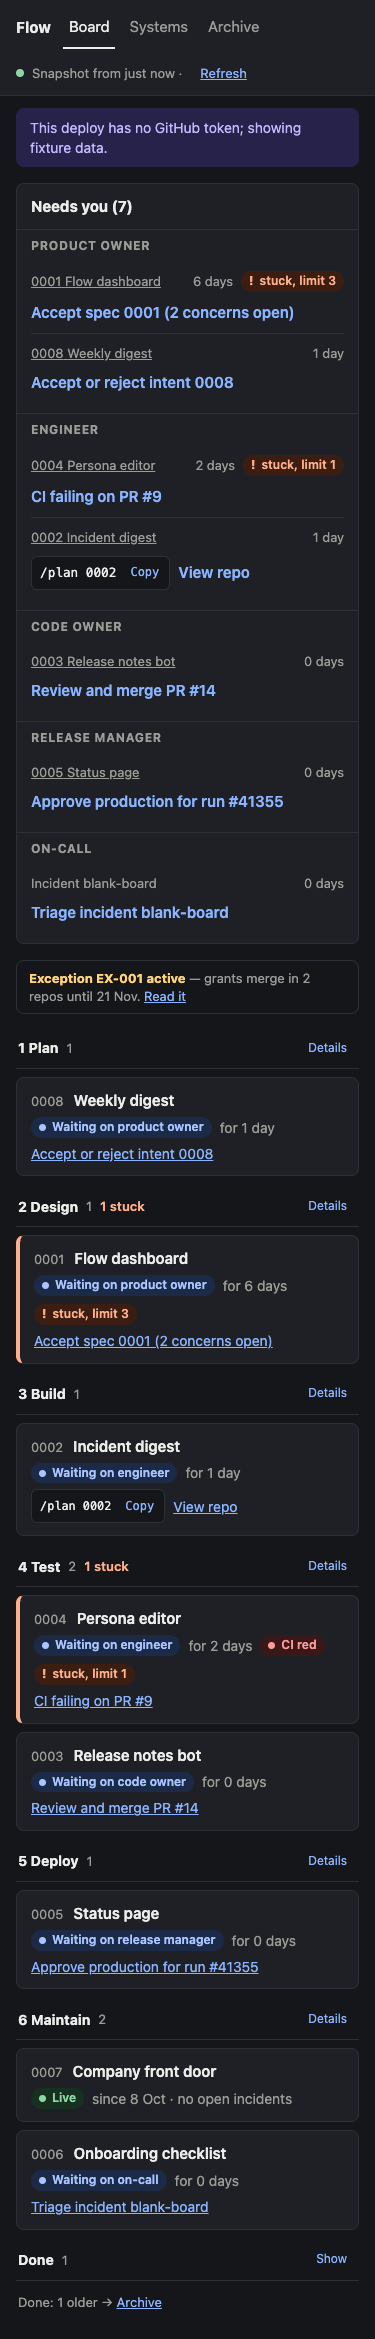
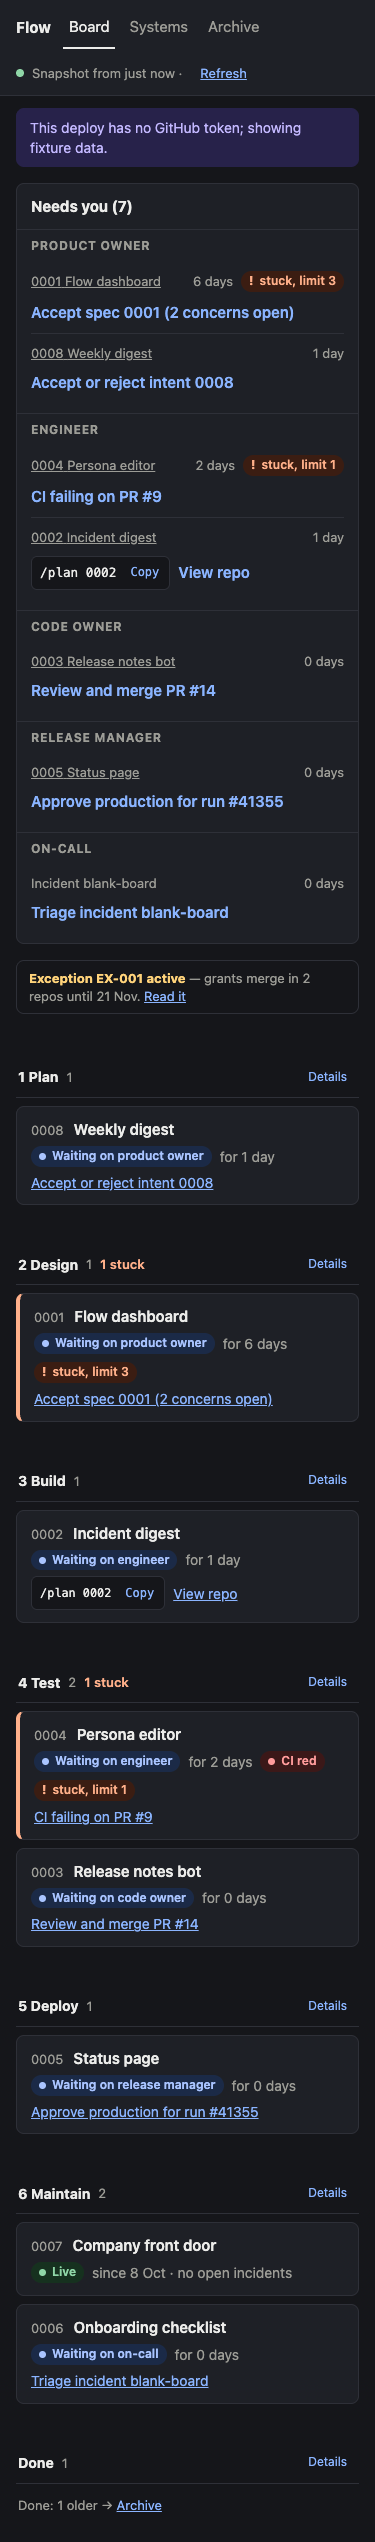
Re-check fixes: intent stuck analysis uses the wait, Systems nowrap only ≥ 1100 px, Done expands in place, header alignment, spec-head URL guard, branch-scoped site store (plan-unchanged)
UX and tech-reviewer re-checks of 49609bf. The Intent page compared time
in stage with the limit; it now compares the wait and states both. The
Systems table's nowrap columns clipped at laptop widths under the body's
hidden overflow; they apply only on wide monitors. Done gets a one-line
detail so every header expands in place (R6). Stage headers keep a
two-line minimum so a wrapped header no longer offsets its cards.
Security nits: head sha checked and directory encoded before the
contents URL; a branch deploy of any branch other than main gets a
deploy-scoped store. 323 tests. Review record updated with the re-check.

diff --git a/src/styles.css b/src/styles.css
@@ -128,7 +128,9 @@ button { font: inherit; }
 /* ---- stages ---- */
 .stages { display: grid; gap: var(--gap); grid-template-columns: repeat(7, minmax(0, 1fr)); }
 .stage-col { display: grid; gap: 8px; align-content: start; min-width: 0; }
-.stage-col > header { display: flex; align-items: center; gap: 8px; padding: 2px 2px 4px; border-bottom: 2px solid var(--line); flex-wrap: wrap; }
+/* Two-line minimum so a header that wraps ("1 stuck" + Details) does not
+   push its cards below the neighbouring columns'. */
+.stage-col > header { display: flex; align-items: center; align-content: end; gap: 8px; padding: 2px 2px 4px; border-bottom: 2px solid var(--line); flex-wrap: wrap; min-height: 68px; }
 .stage-col > header h2 { font-size: 14px; margin: 0; }
 .stage-col > header .count { color: var(--muted); font-size: 13px; }
 .stage-col > header .stuck-count { color: var(--stuck-fg); font-size: 13px; font-weight: 600; }
@@ -161,8 +163,13 @@ button { font: inherit; }
 .systems, .archive { display: grid; gap: 16px; }
 .systems table, .archive table { width: 100%; border-collapse: collapse; background: var(--panel); border: 1px solid var(--line); border-radius: var(--radius); font-size: 14px; }
 .systems th, .systems td, .archive th, .archive td { text-align: left; padding: 8px 10px; border-bottom: 1px solid var(--line); vertical-align: top; overflow-wrap: break-word; }
-.systems td:first-child, .systems td:nth-child(2), .systems td:nth-child(3) { white-space: nowrap; }
-.systems th:nth-child(5) { min-width: 14em; }
+/* Wide monitors only: keep repo and site names on one line and give the
+   status sentence room. Below this the table wraps rather than clipping
+   (body hides horizontal overflow). */
+@media (min-width: 1100px) {
+  .systems td:first-child, .systems td:nth-child(2), .systems td:nth-child(3) { white-space: nowrap; }
+  .systems th:nth-child(5) { min-width: 14em; }
+}
 .systems th, .archive th { font-size: 12px; text-transform: uppercase; letter-spacing: 0.05em; color: var(--muted); }
 .systems tr:last-child td, .archive tr:last-child td { border-bottom: 0; }
 .systems .cards { display: none; gap: 10px; }
@@ -218,5 +225,4 @@ button { font: inherit; }
 @media (min-width: 601px) {
   .systems .cards { display: none; }
   /* Done cards are always visible on wide screens; the Show/Hide toggle is a phone control */
-  .stage-col.done > header button { display: none; }
 }

diff --git a/src/components/Stage.tsx b/src/components/Stage.tsx
@@ -27,6 +27,9 @@ export function StageSection({ stage, rows, stuckCount, allRows, snapshot, now, 
   const detailId = `stage-${stage}-detail`;
   const headingId = `stage-${stage}-h`;
   const detail = open && !isDone ? stageDetail(stage, allRows, snapshot, now) : null;
+  // Done's detail is one line (R6 says every header expands in place); on a
+  // phone the same toggle also reveals the Done cards (CSS `.is-open`).
+  const doneDetail = open && isDone;
 
   const cls = ["stage-col", empty ? "is-empty" : "", isDone ? "done" : "", open ? "is-open" : ""].filter(Boolean).join(" ");
 
@@ -34,7 +37,7 @@ export function StageSection({ stage, rows, stuckCount, allRows, snapshot, now, 
     navigate(open ? "/" : `/?stage=${stage}`, { replace: true });
   }
 
-  const label = isDone ? (open ? "Hide" : "Show") : open ? "Hide" : "Details";
+  const label = open ? "Hide" : "Details";
 
   return (
     <section className={cls} aria-labelledby={headingId}>
@@ -43,11 +46,18 @@ export function StageSection({ stage, rows, stuckCount, allRows, snapshot, now, 
         <span className="count">{rows.length}</span>
         {stuckCount > 0 && <span className="stuck-count">{stuckCount} stuck</span>}
         {!empty && (
-          <button type="button" aria-expanded={open} onClick={toggle} {...(detail ? { "aria-controls": detailId } : {})}>
+          <button type="button" aria-expanded={open} onClick={toggle} {...(detail || doneDetail ? { "aria-controls": detailId } : {})}>
             {label}
           </button>
         )}
       </header>
+      {doneDetail && (
+        <div className="stage-detail" id={detailId}>
+          <div>
+            {plural(rows.length, "intent")} on board · {plural(olderDone ?? 0, "intent")} older in Archive
+          </div>
+        </div>
+      )}
       {detail && (
         <div className="stage-detail" id={detailId}>
           <div>

diff --git a/tests/ui/R9_states.test.tsx b/tests/ui/R9_states.test.tsx
@@ -208,18 +208,25 @@ describe("R9 fixture and populated", () => {
     expect(document.getElementById("stage-test-detail")).not.toBeNull();
   });
 
-  test("Done toggle reads Show/Hide, reveals cards only, and sets no aria-controls", () => {
+  test("Done expands in place too (R6): a one-line detail with the Archive count; aria-controls only while open", () => {
     renderAt("/", makeFlow({ snapshot: populatedSnapshot() }));
     const done = document.querySelector(".stage-col.done")!;
     const btn = done.querySelector("button")!;
-    expect(btn).toHaveTextContent("Show");
+    expect(btn).toHaveTextContent("Details");
     expect(btn).toHaveAttribute("aria-expanded", "false");
     expect(btn).not.toHaveAttribute("aria-controls");
     renderAt("/?stage=done", makeFlow({ snapshot: populatedSnapshot() }));
     const open = document.querySelector(".stage-col.done.is-open")!;
     expect(open.querySelector("button")).toHaveTextContent("Hide");
-    expect(open.querySelector(".stage-detail")).toBeNull();
+    expect(open.querySelector("button")).toHaveAttribute("aria-controls", "stage-done-detail");
+    expect(text(open.querySelector(".stage-detail"))).toMatch(/^1 intent on board · \d+ intents? older in Archive$/);
     expect(open.querySelectorAll(".card").length).toBe(1);
+  });
+
+  test("intent stuck analysis compares the wait, not the time in stage, with the limit", () => {
+    renderAt("/intent/0001", makeFlow({ snapshot: populatedSnapshot() }));
+    const analysis = text(document.querySelector(".analysis"));
+    expect(analysis).toMatch(/^Stuck: waited \d+ days?, limit 3 days \(design\.spec_pr_open_days\) · \d+ days? in Design\.$/);
   });
 
   test("intent header: one state string, stage after it; pending timeline entries say so in text", () => {

diff --git a/src/collector/collect.ts b/src/collector/collect.ts
@@ -540,13 +540,14 @@ async function readPlatformArtifacts(ctx: Ctx, tree: GhTreeEntry[]): Promise<Pla
 async function flaggedAtHead(ctx: Ctx, dir: string, pr: Pr): Promise<number> {
   const path = `intent/${dir}/spec.md`;
   const label = `${ctx.platform}#${pr.number} ${path}@head`;
-  const text = await soft(
-    ctx,
-    label,
-    async () =>
-      decodeBlob(asObject<GhBlob>(await ctx.client.get(`/repos/${ctx.owner}/${ctx.platform}/contents/${path}?ref=${pr.headSha}`), "contents")),
-    null,
-  );
+  // Both segments come from GitHub, but neither may reshape the URL: the
+  // head must be a full sha and the directory is encoded.
+  if (!/^[0-9a-f]{40}$/.test(pr.headSha)) {
+    warn(ctx, `${label} skipped: head is not a sha`);
+    return 0;
+  }
+  const url = `/repos/${ctx.owner}/${ctx.platform}/contents/intent/${encodeURIComponent(dir)}/spec.md?ref=${pr.headSha}`;
+  const text = await soft(ctx, label, async () => decodeBlob(asObject<GhBlob>(await ctx.client.get(url), "contents")), null);
   if (text === null) return 0;
   try {
     const v = specFrontmatter(parseFrontmatter(text));

diff --git a/netlify/lib/store.ts b/netlify/lib/store.ts
@@ -58,8 +58,16 @@ export type Scope = "site" | "deploy";
 /** The only contexts whose snapshot outlives the deploy and is shared across deploys. */
 export const SITE_CONTEXTS: ReadonlySet<string> = new Set(["production", "branch-deploy"]);
 
-export function scopeFor(prefix: string): Scope {
-  return SITE_CONTEXTS.has(prefix) ? "site" : "deploy";
+/**
+ * Site scope is for production and the `main` branch deploy (staging). A
+ * branch deploy of any other branch — should Netlify's allowed branches ever
+ * widen — gets a deploy-scoped store so it cannot overwrite staging's board.
+ * `branch` is Netlify's build-time `BRANCH`; unknown (tests, local) means main.
+ */
+export function scopeFor(prefix: string, branch: string | undefined = process.env.BRANCH): Scope {
+  if (!SITE_CONTEXTS.has(prefix)) return "deploy";
+  if (prefix === "branch-deploy" && branch !== undefined && branch !== "main") return "deploy";
+  return "site";
 }
 
 /** Seam for tests: which Netlify store backs each scope. */

diff --git a/src/screens/Intent.tsx b/src/screens/Intent.tsx
@@ -54,9 +54,9 @@ function StuckAnalysis({ d }: { d: Derived }) {
   return (
     <p className="analysis">
       {d.stuck
-        ? `Stuck: ${plural(d.days, "day")} in ${bareStage(d.stage)}${limit ? `, limit ${limit}` : ""}${key}.`
+        ? `Stuck: waited ${plural(d.waitDays, "day")}${limit ? `, limit ${limit}` : ""}${key} · ${plural(d.days, "day")} in ${bareStage(d.stage)}.`
         : limit
-          ? `Not stuck: ${plural(d.days, "day")} in ${bareStage(d.stage)}, limit ${limit}${key}.`
+          ? `Not stuck: waited ${plural(d.waitDays, "day")}, limit ${limit}${key} · ${plural(d.days, "day")} in ${bareStage(d.stage)}.`
           : `${plural(d.days, "day")} in ${bareStage(d.stage)}; no threshold applies.`}
     </p>
   );

diff --git a/docs/reviews/0001-pr-review.md b/docs/reviews/0001-pr-review.md
@@ -94,6 +94,32 @@ separately (comment on the PR): fixture served from Blobs under
   disposition landed; badges carry text; keyboard reachability; 375
   layouts stack without overflow; new color pairs ≥ 5:1.
 
-## Re-check
+## Re-check (after the fixes)
 
-_(appended after the fixes)_
+- **Security-lead: clear.** Store scope and failure-floor fixes verified in
+  code and tests; new spec-head read judged safe (same-repo PRs only,
+  validated `flagged` only). Nits taken: the head sha is checked and the
+  directory segment encoded before the `contents` URL is built; a branch
+  deploy of any branch other than `main` gets a deploy-scoped store
+  (`scopeFor(prefix, BRANCH)`). Carried for the release record: Netlify's
+  fork-preview policy ("require approval") is the backstop against hostile
+  preview code; `lastError` returned on the floor path stays sanitized.
+- **Tech-reviewer: fixes 1–4 verified** (window, Maintain clock, R15
+  warning with `BASELINE_CALLS = 33` from the second spike, `flagged` at
+  head). One remaining Important — the Intent page's stuck analysis still
+  compared time-in-stage with the limit — **fixed:** it now reads "Stuck:
+  waited N days, limit L (key) · M days in Stage" and is asserted in R9.
+  Nit taken: R2 amended in platform PR #7 so the spec says a waiting
+  card's days are the wait. Carried: `pulls?per_page=100` page-1 horizon,
+  `Plan.onMain` always true, `previous.json` unread.
+- **UX: 2 Important after the first fixes, both taken** — the same
+  stuck-analysis contradiction (above) and `nowrap` Systems columns that
+  clipped between 601 and ~1050 px (now applied only ≥ 1100 px; narrower
+  tables wrap). Nits taken: stage headers have a two-line minimum so a
+  wrapped header no longer pushes its cards down; Done expands in place
+  with a one-line detail ("N on board · M older in Archive") so
+  `/?stage=done` works (R6). Screenshots retaken.
+
+Final state: `make check` → `check: ok`, 24 files / 323 tests. Merge
+waits on gate 3 (the engineer's `status: approved` on the plan), which
+EX-001 does not cover.
